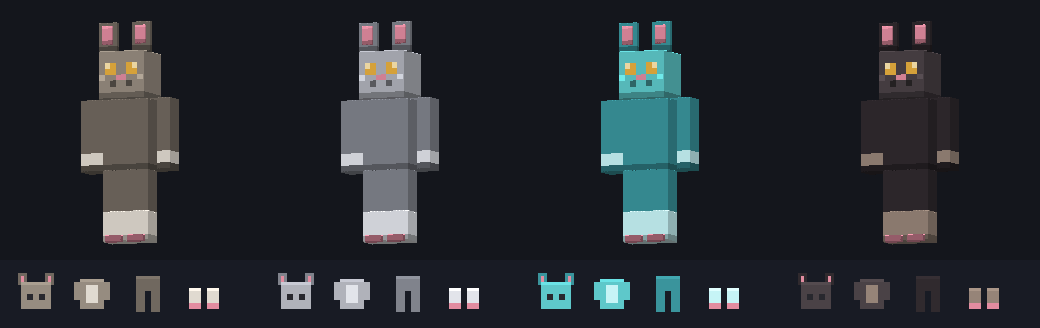
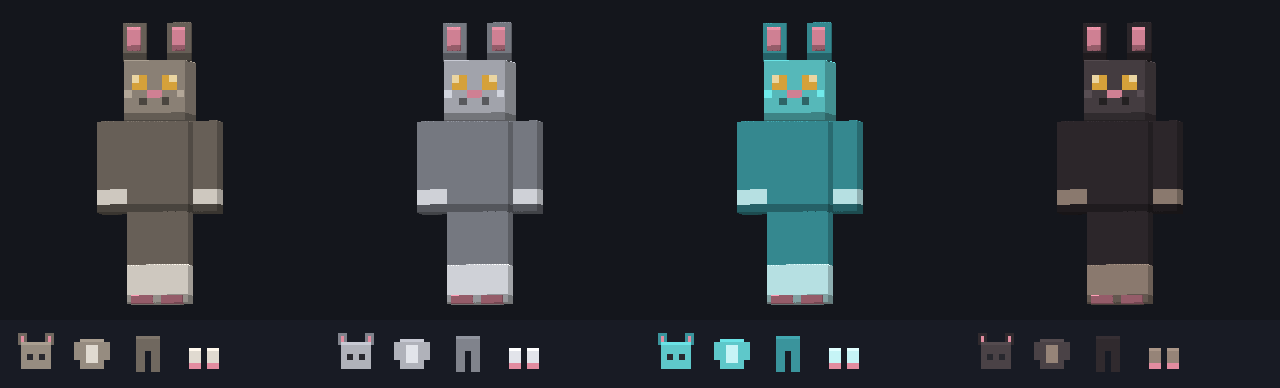
Smalare ärmar — färgen bär skillnaden, inte vadderingen (v3.31.6)
"Kan man göra dem lite smalare? Så de inte upplevs som så klumpigt."

Utbuktningen fanns till för att skapa en avsats mellan arm och bål, men
Xbox-bilden visade att FÄRGEN och MANSCHETTEN redan gör jobbet. Då behöver
utbuktningen bara vara stor nog att lägga armen utanför bålen:

  ärm   1.15 -> 0.75   (bredd 6.3 -> 5.5; spelarens egen arm är 4.0)
  bål   0.70 -> 0.50   (bredd 9.4 -> 9.0)
  hela siluetten 18.3 -> 17.5 (naken spelare: 16.0)

Vadderingen över armen gick alltså från +2.3 till +1.5. Under ungefär 0.4
börjar plagget flimra mot spelarens hud, så mer finns inte att ta.

OBS för framtiden: den här ändringen går INTE att granska i förhandsbilden.
Förhandsvisningen måste slänga inflate för att UV:n ska bli rätt, och det är
precis inflate som ändras. Siffrorna ovan är mätta ur geometrin i stället.

diff --git a/tools/make_player_gear.py b/tools/make_player_gear.py
@@ -121,7 +121,7 @@ PLAGG = {
             # samma plan och de växte ihop till en bred platta ("man har typ
             # inga armar"). Nu buktar ärmen längre ut än bålen åt alla håll,
             # så det finns en synlig avsats där armen börjar.
-            ("body", [-4, 12, -2], [8, 12, 4], [0, 0], PALS, 0.7),
+            ("body", [-4, 12, -2], [8, 12, 4], [0, 0], PALS, 0.5),
             ("body", [-2.5, 12.5, -2.6], [5, 8, 1], [26, 0], MAGE, 0.0),      # ljus bringa
             # HELA ÄRMAR, men tydliga. Två försök gick fel före det här: först
             # ärmar kant i kant med bålen (allt blev en platta), sedan ärmlös
@@ -131,8 +131,14 @@ PLAGG = {
             # Tre saker skiljer dem åt nu: ärmen buktar mer än bålen (1.15 mot
             # 0.7) så det finns en avsats, den är i den mörkare tonen, och den
             # får en ljus manschett vid handleden så armen har ett slut.
-            ("leftArm", [4, 12, -2], [4, 12, 4], [40, 0], PALS_MORK, 1.15),
-            ("rightArm", [-8, 12, -2], [4, 12, 4], [40, 20], PALS_MORK, 1.15),
+            # SMALARE. 1.15 mot bålens 0.7 gav en tydlig avsats men en bred,
+            # klumpig siluett — axlarna blev bredare än en vanlig spelares.
+            # Nu bär FÄRGEN och MANSCHETTEN skillnaden (bevisat på Xbox), så
+            # utbuktningen behöver bara vara precis så stor att armen ligger
+            # utanför bålen: 0.75 mot 0.5. Under ~0.4 börjar plagget flimra
+            # mot spelarens egen hud, så längre ner än så går det inte.
+            ("leftArm", [4, 12, -2], [4, 12, 4], [40, 0], PALS_MORK, 0.75),
+            ("rightArm", [-8, 12, -2], [4, 12, 4], [40, 20], PALS_MORK, 0.75),
         ],
     },
     "byxor": {
@@ -343,7 +349,7 @@ def forhandsbild():
     """
     import render_preview as rp
     RAM = ((-10, 10), (0, 38), (-10, 10))       # spelarens hela höjd
-    RUTA = 260
+    RUTA = 320
     K, N = 3, 16
     kolumner = []
     for niv in NIVAORDNING:
@@ -368,7 +374,7 @@ def forhandsbild():
                 ben.append((b["name"], b["pivot"], kub))
             rr.bones_for = lambda acc, _l=ben: _l
             vy = rr.render(f"mjau_{ident(namn, niv)}", [], {}, W=RUTA, H=RUTA,
-                           yaw=22, pitch=6, ram=RAM)
+                           yaw=10, pitch=3, ram=RAM)
             if lager is None:
                 lager = [list(r) for r in vy]
                 bg = vy[0][0]

diff --git a/changelog-pending.md b/changelog-pending.md
@@ -1,6 +1,6 @@
 # Ej publicerat på CurseForge ännu
 
-## 3.31.5 — Dress like your cat, and two new neighbours in Cat Haven
+## 3.31.6 — Dress like your cat, and two new neighbours in Cat Haven
 
 The kids asked for it: *you* should be able to wear cat gear, not just the cat.
 
@@ -13,9 +13,11 @@ enchantments and mending like any other armour.
 **The vest has arms you can see.** The first version wrapped the whole arm in
 the same colour as the chest and sat flush against it, so the two grew into one
 wide slab — reported from an Xbox as "you have basically no arms". The sleeves
-are full length again, but now they are a shade darker than the chest, they sit
-a little proud of it, and they end in a pale cuff at the wrist. You can tell
-where the body stops and the arm starts.
+are full length, a shade darker than the chest, and they end in a pale cuff at
+the wrist — so you can tell where the body stops and the arm starts without the
+suit having to be bulky about it. It sits about one and a half units wider than
+a bare player, where the first attempt at making the arms visible sat at two
+and a half.
 
 **The suit comes in four tiers.** Leather, iron, diamond and netherite. You do
 not re-craft it — you upgrade the piece you already wear by combining it with
